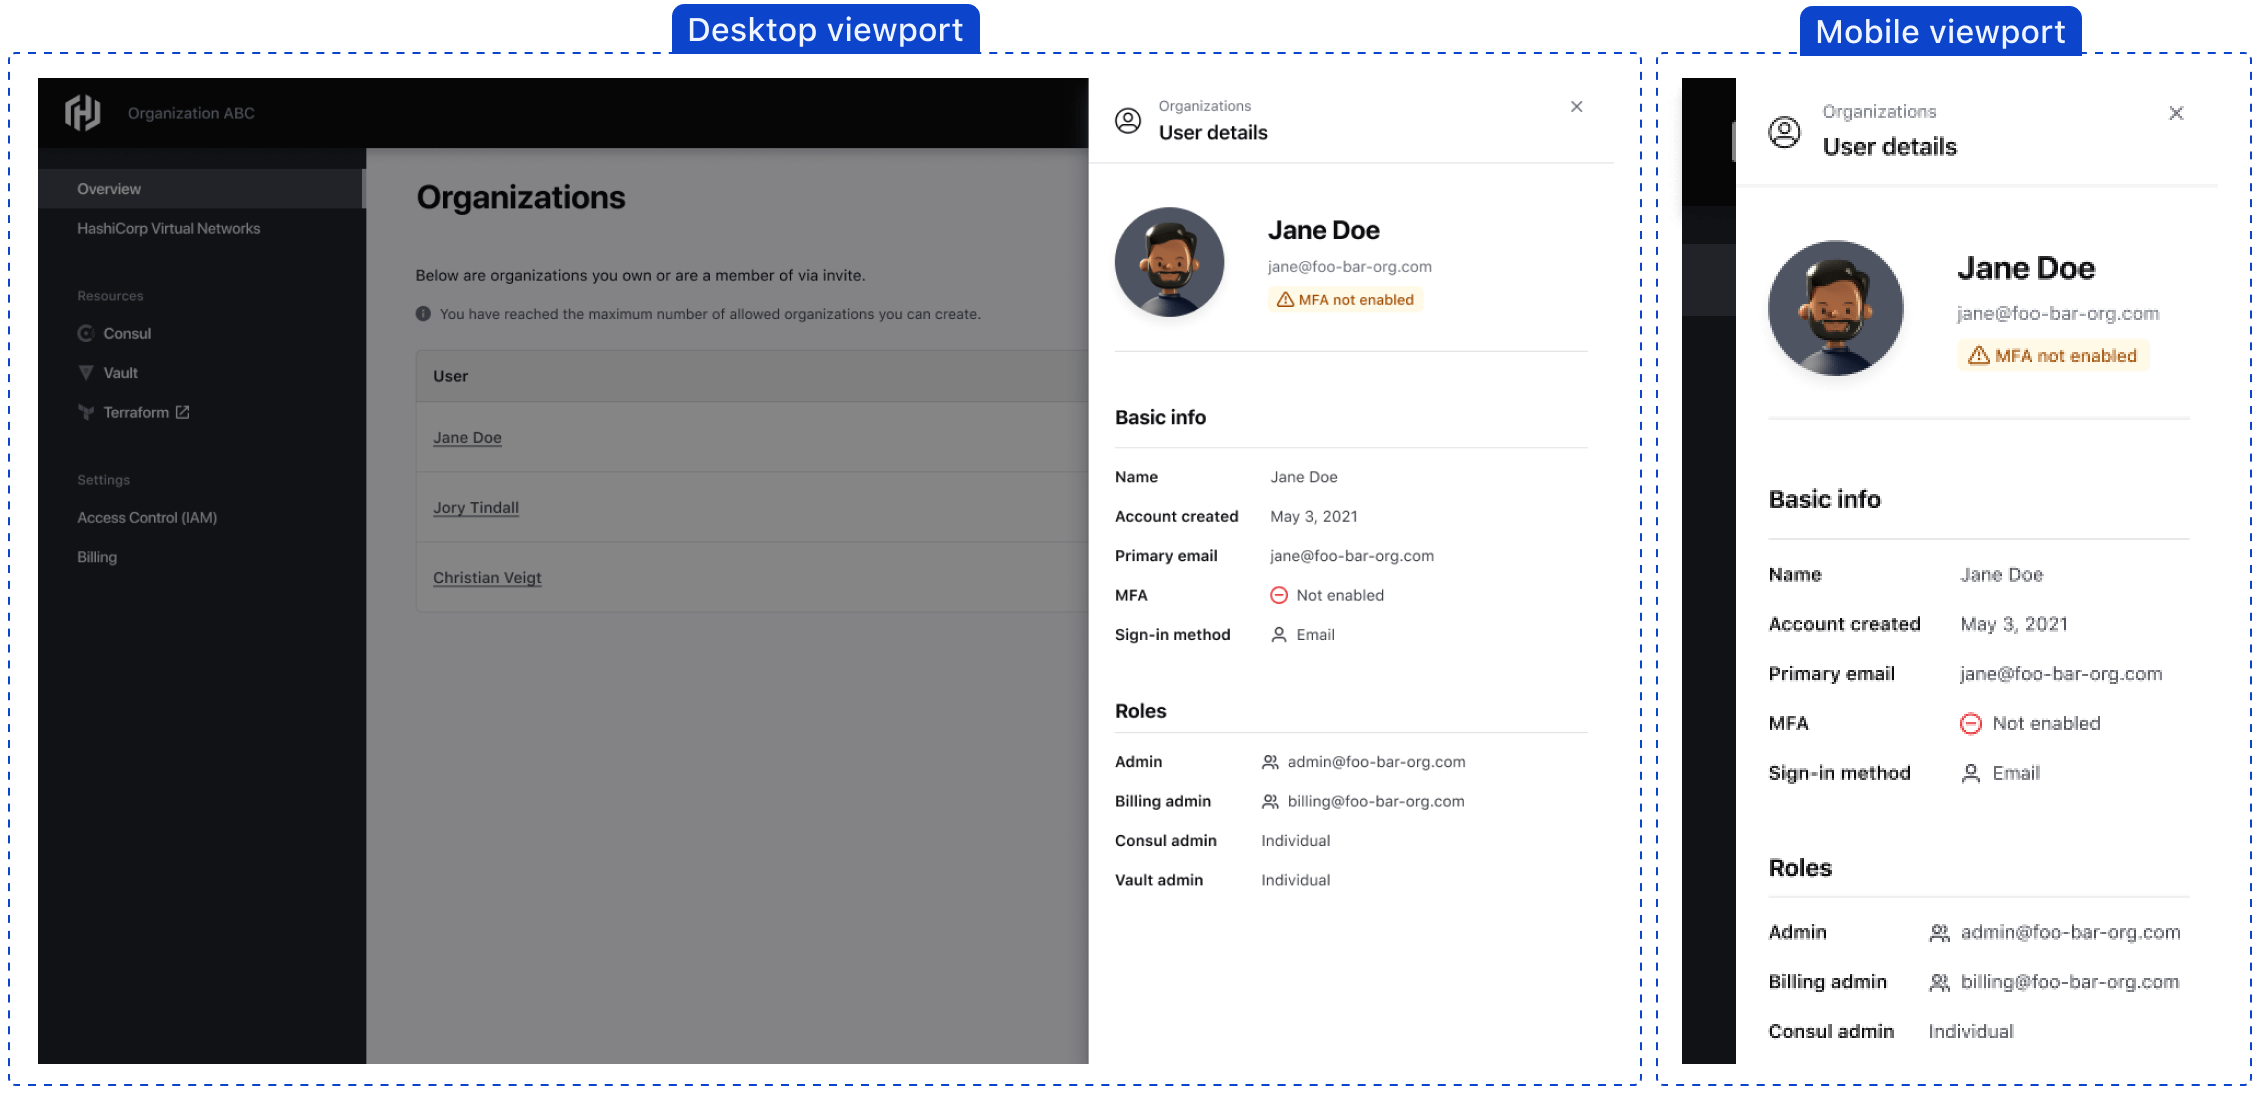
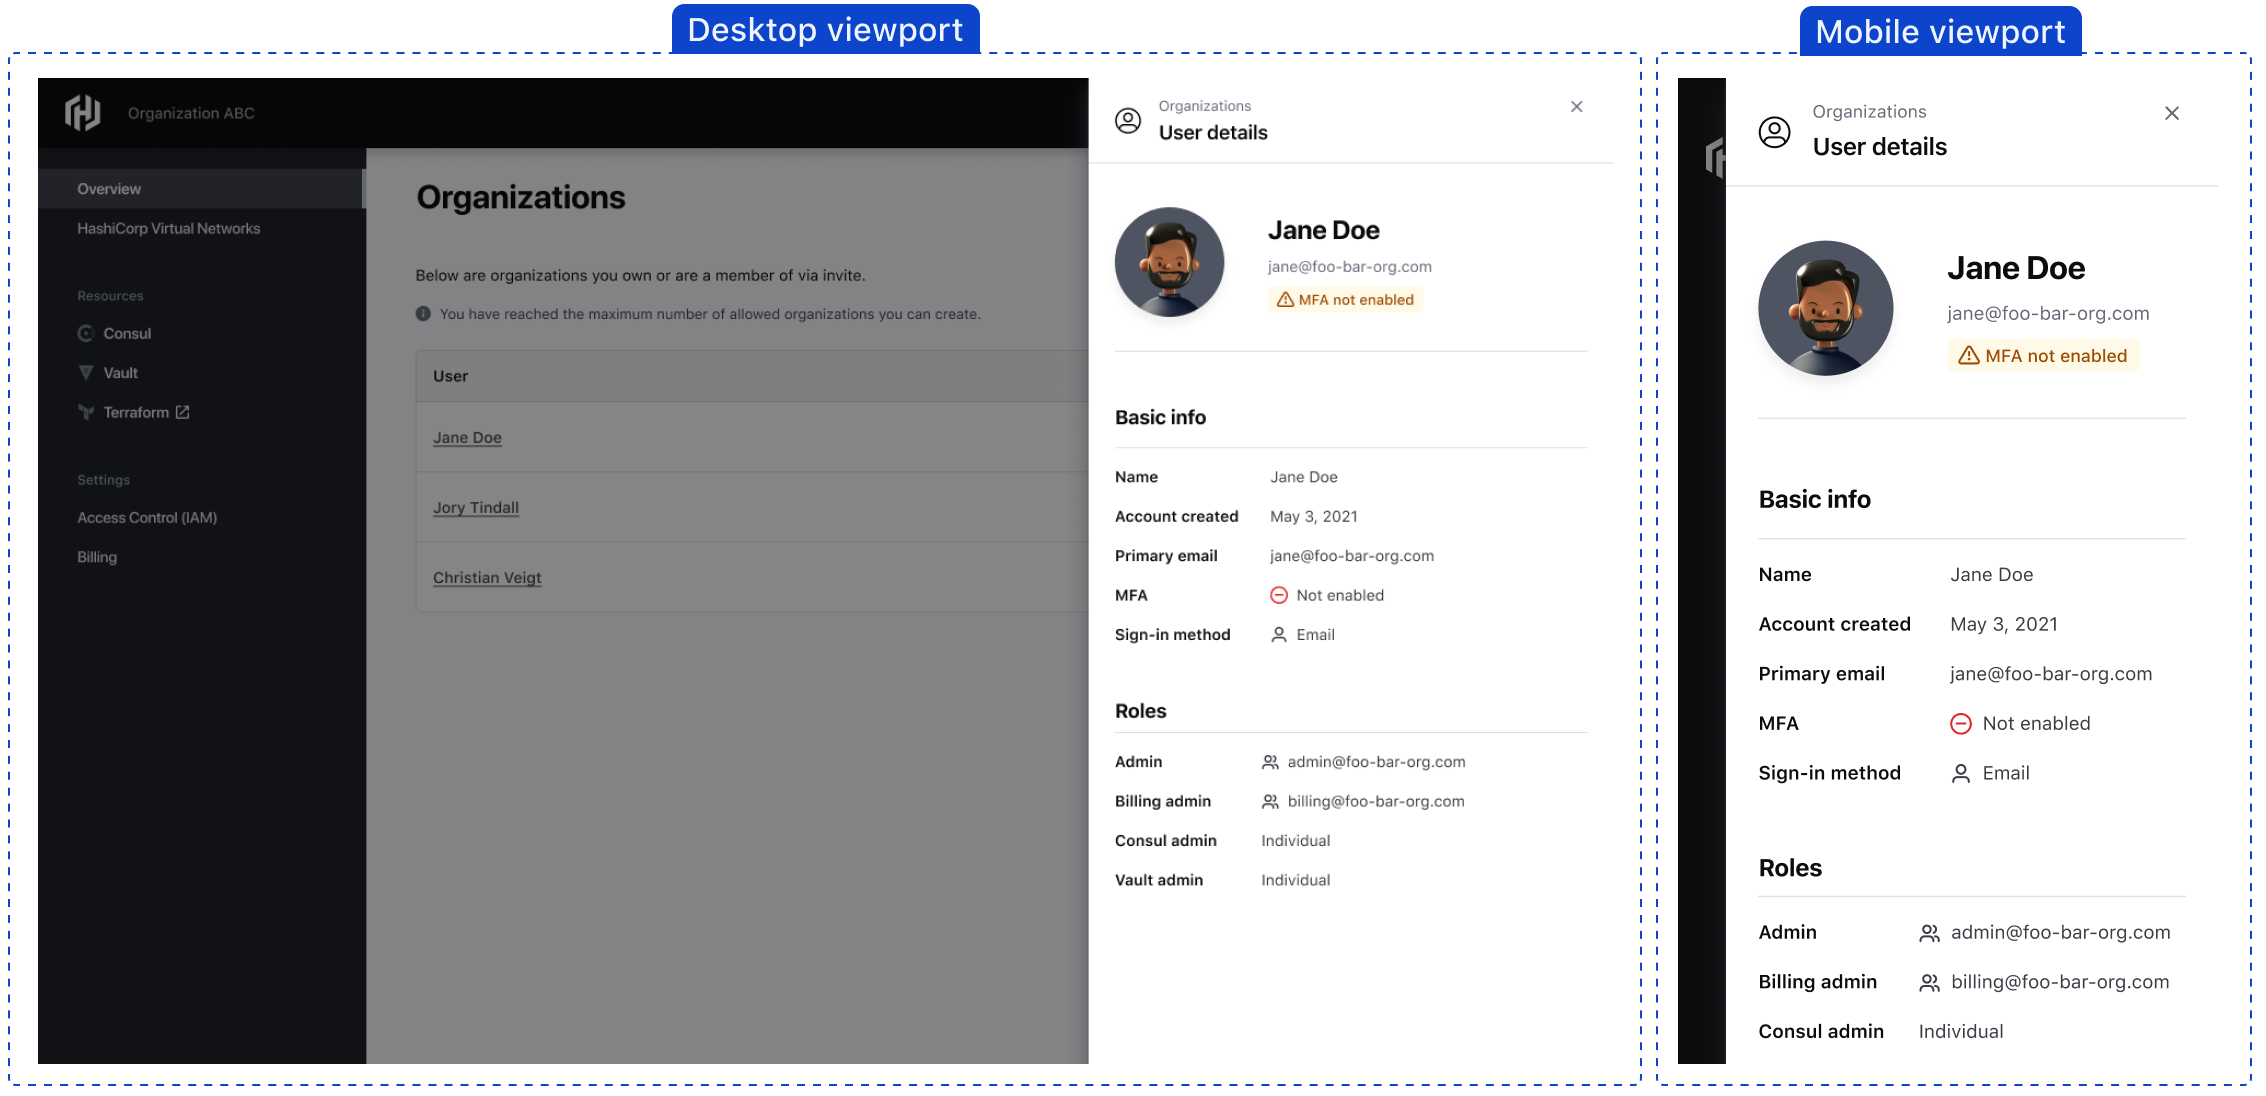
`Flyout`: Reduce gap between edge of screen in mobile view (HDS-3003) (#1957)

Changed region(s): [[0.7414, 0.062, 0.9576, 0.9617], [0.865, 0.4964, 0.8959, 0.5274]]

diff --git a/packages/components/src/styles/components/flyout.scss b/packages/components/src/styles/components/flyout.scss
@@ -7,12 +7,14 @@
 // FLYOUT
 //
 
+$hds-flyout-max-width: calc(100vw - var(--hds-app-sidenav-width-minimized) / 2 );
+
 @mixin hds-flyout-position($size) {
-  width: min($size, calc(100vw - 40px));
-  max-width: calc(100vw - 40px);
+  width: min($size, #{$hds-flyout-max-width});
+  max-width: $hds-flyout-max-width;
 
   &[open] {
-    margin-left: calc(100% - min($size, calc(100vw - 40px)));
+    margin-left: calc(100% - min($size, #{$hds-flyout-max-width}));
   }
 }
 

diff --git a/website/docs/components/flyout/partials/guidelines/guidelines.md b/website/docs/components/flyout/partials/guidelines/guidelines.md
@@ -250,7 +250,7 @@ A Flyout should slide out from the right side of the viewport on top of the main
 In Figma, the Flyout should be paired with the [overlay](https://www.figma.com/file/noyY6dUMDYjmySpHcMjhkN/HDS-Product---Components?node-id=22928%3A55862&t=ZUcWdRNwXAJddKsS-1) component which obscures the main page content the Flyout sits on top of. Using the Flyout without the overlay is currently not supported and helps to communicate visually the `inert` nature of the main page.
 !!!
 
-On smaller viewports, the Flyout should occupy 100% of the viewport width minus a 40px margin from the viewport edge.
+On smaller viewports, the Flyout should occupy 100% of the viewport width minus half the size of the minimized SideNav width from the viewport edge.
 
 - If the body content of the Flyout exceeds the maximum height of the viewport, a scroll will be introduced.
 - The Flyout header is not included in the scrolling section, only the body content. The header should always be visible to help the user understand the Flyout content and how it relates to the main page.

diff --git a/.changeset/popular-papayas-march.md b/.changeset/popular-papayas-march.md
@@ -1,0 +1,5 @@
+---
+"@hashicorp/design-system-components": patch
+---
+
+`Flyout` - Reduce gap between Flyout and edge of screen from 40px to half of the minimized `SideNav` width in medium view.
